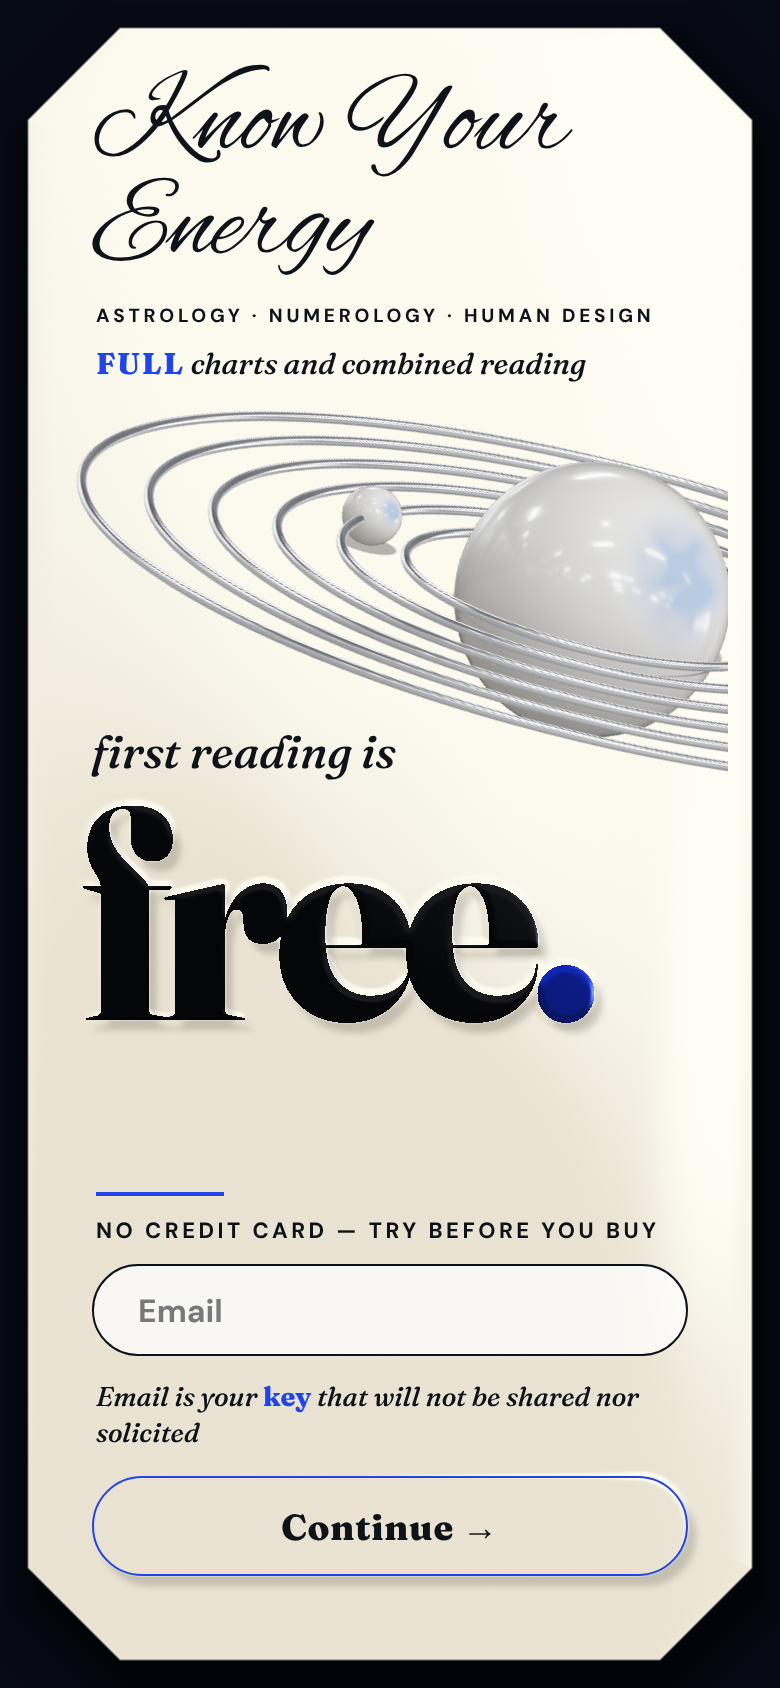
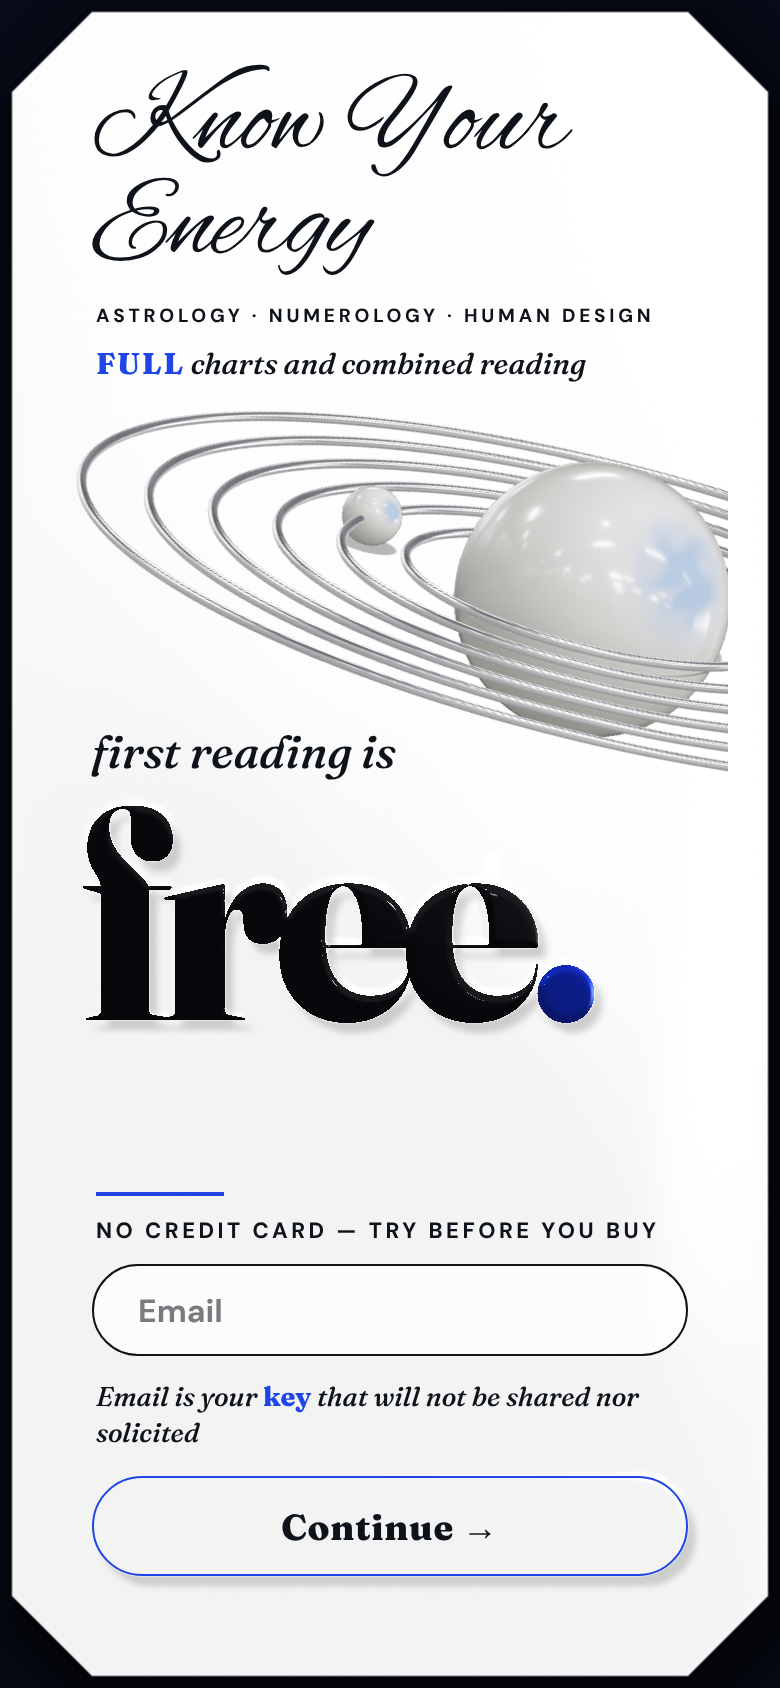
Plate page: not paper - cool polished surface, crisp window reflections, thin dark margin, lighter
Claude-Session: https://claude.ai/code/session_01DRAcaZvypgnSaCTMdJvvGx

diff --git a/metalpage/v2.html b/metalpage/v2.html
@@ -40,16 +40,17 @@ uniform vec2 R;uniform sampler2D uI;uniform sampler2D uH;uniform vec3 uL1;unifor
 float hash(vec3 p){p=fract(p*0.3183099+vec3(.1,.2,.3));p*=17.0;return fract(p.x*p.y*p.z*(p.x+p.y+p.z));}
 float sdPlate(vec2 q){ // css px, plate centred at (195,422)
   q=abs(q-vec2(195.,422.));
-  float d1=max(q.x-181.,q.y-408.);
-  float d2=(q.x+q.y-(181.+408.-46.))*.70711;
+  float d1=max(q.x-189.,q.y-416.);
+  float d2=(q.x+q.y-(189.+416.-40.))*.70711;
   return max(d1,d2);}
-float bevel(float sd){float t=clamp(-sd/13.,0.,1.);return 13.*sqrt(max(1.-(1.-t)*(1.-t),0.));}
+float bevel(float sd){float t=clamp(-sd/9.,0.,1.);return 9.*sqrt(max(1.-(1.-t)*(1.-t),0.));}
 float dome(vec2 p){float d=dot(p/vec2(.62,1.12),p/vec2(.62,1.12));return 1.7*(1.-pow(min(d,1.7)/1.7,1.25));}
 vec2 px2uv(vec2 px){return vec2(px.x/390.,1.-px.y/844.);}
 float bump(vec2 px){return texture2D(uH,px2uv(px)).r*5.;}
 float Ht(vec2 px){vec2 p=(px-vec2(195.,422.))/390.;p.y=-p.y;return dome(p)+(bevel(sdPlate(px))+bump(px))/390.;}
-float roomBase(vec3 r){float sky=smoothstep(-.30,.42,r.y+.25*r.x);return mix(.80,1.45,sky);}
-float roomK(vec3 r){return exp((dot(r,uL1)-1.)/.010)*3.4+exp((dot(r,uL2)-1.)/.014)*2.4+exp((dot(r,uL1)-1.)/.060)*1.1;}
+float roomBase(vec3 r){float sky=smoothstep(-.30,.42,r.y+.25*r.x);return mix(.86,1.45,sky);}
+float rb(vec2 q,vec2 h,float rad){vec2 d=abs(q)-h+rad;return 1.-smoothstep(-.004,.004,length(max(d,0.))+min(max(d.x,d.y),0.)-rad);}
+float roomK(vec3 r){return rb(r.xy-uL1.xy*.9-vec2(.02,.0),vec2(.13,.075),.03)*2.6+rb(r.xy-uL2.xy*.8,vec2(.05,.035),.015)*1.6+ exp((dot(r,uL1)-1.)/.010)*3.4+exp((dot(r,uL2)-1.)/.014)*2.4+exp((dot(r,uL1)-1.)/.060)*1.1;}
 void main(){
   vec2 px=vec2(gl_FragCoord.x/R.x*390.,(1.-gl_FragCoord.y/R.y)*844.);
   float sd=sdPlate(px);
@@ -64,9 +65,8 @@ void main(){
     vec3 r=reflect(vec3(0.,0.,-1.),N);
     vec4 id=texture2D(uI,px2uv(px));
     float base=roomBase(r),k=roomK(r);
-    vec3 surf=vec3(2.30,2.24,2.06)*(vec3(base)+vec3(k));
+    vec3 surf=vec3(2.62,2.64,2.68)*(vec3(base)+vec3(k));
     surf=1.-exp(-surf*1.35);
-    float lm=dot(surf,vec3(.33));surf*=mix(vec3(1.,.955,.885),vec3(1.,.99,.955),smoothstep(.80,.97,lm));
     // soft shadow cast by the raised shapes onto the surface
     float cs=texture2D(uH,px2uv(px-vec2(4.,5.))).r;float own=texture2D(uH,px2uv(px)).r;
     surf*=1.-.16*cs*(1.-smoothstep(.25,.6,own));
